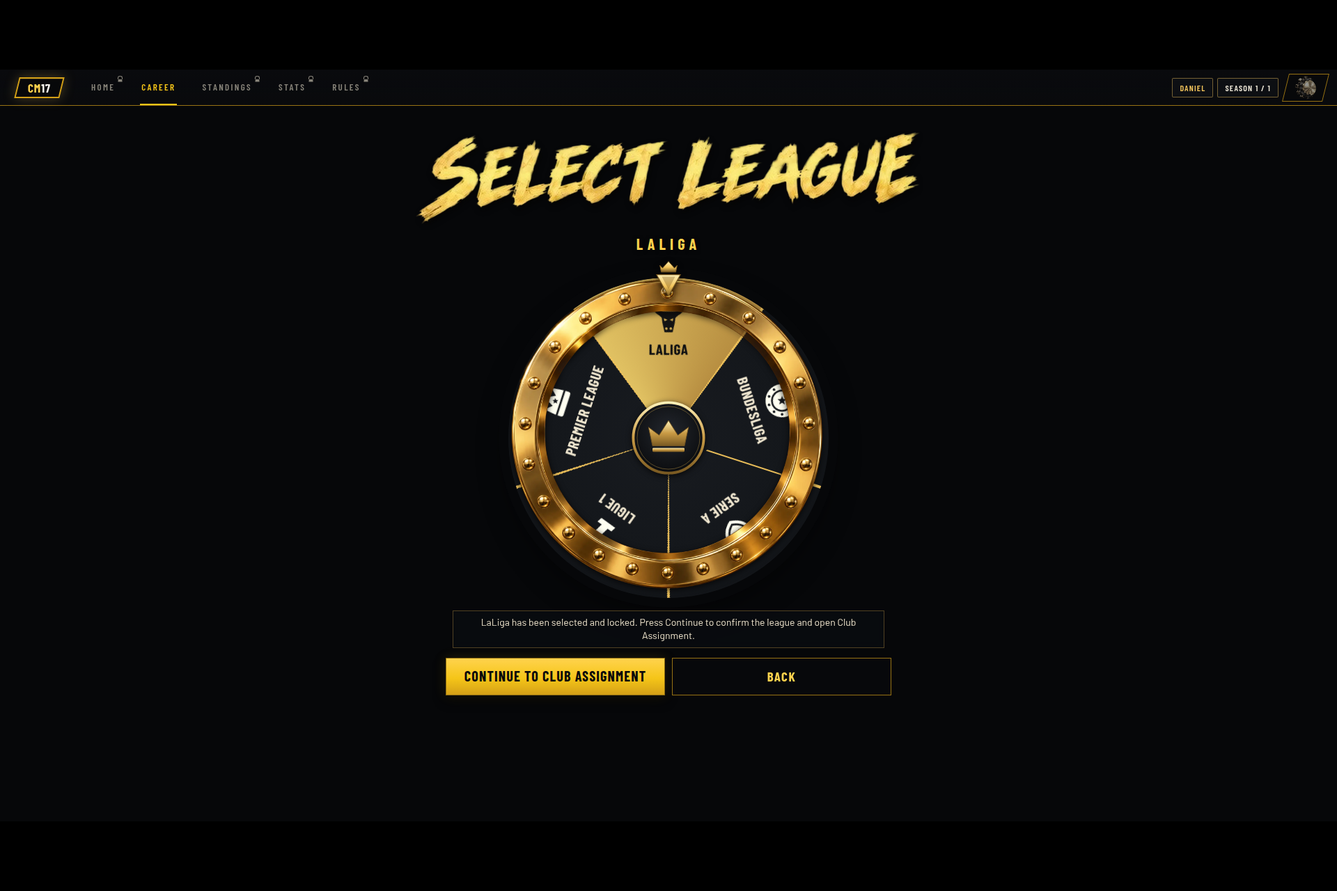
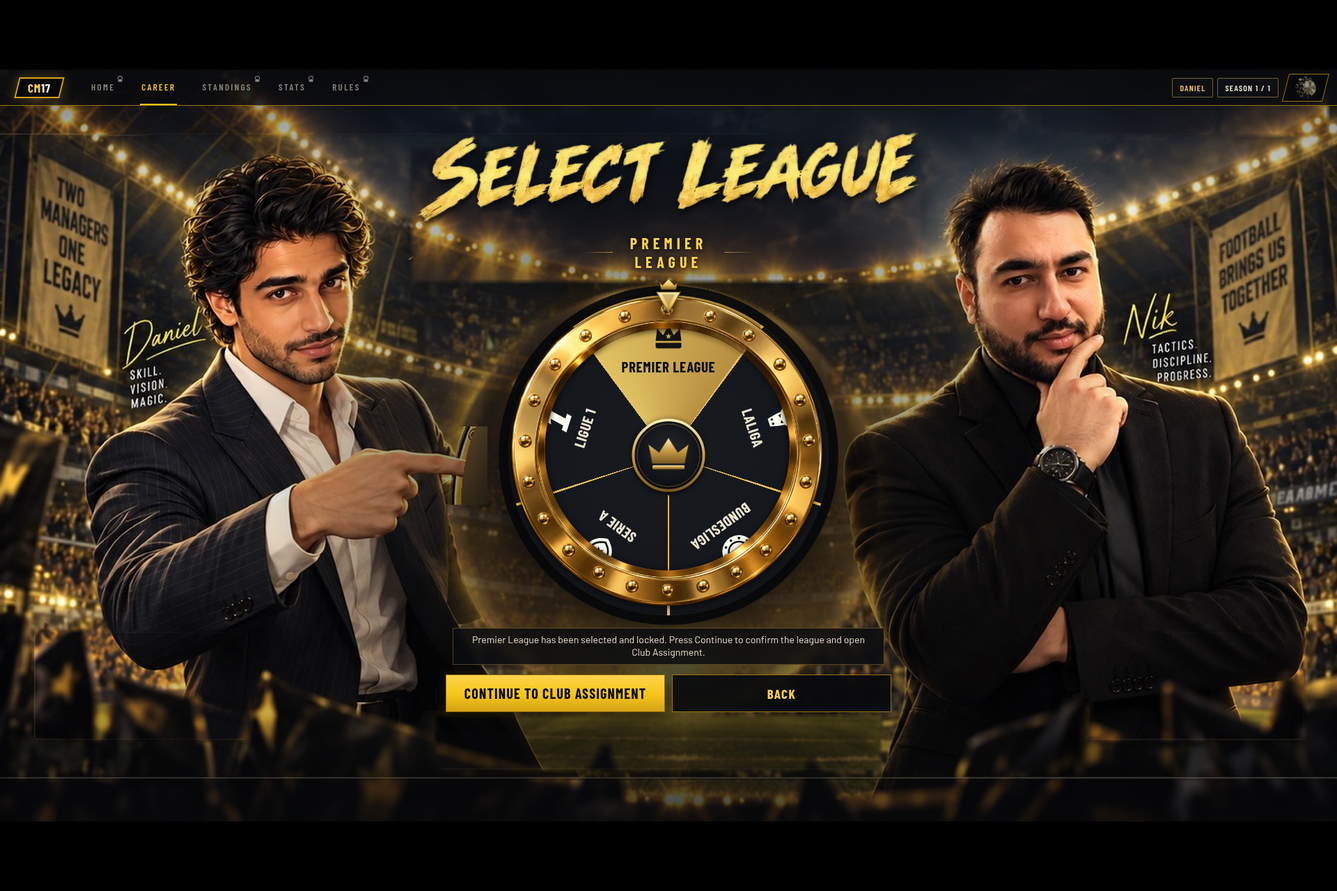
Fix League, Rivalry and Legacy desktop guides (both managers back), full-head rule in tickets, approve premium NEXT_STATISTICS
The old guides were captured while a live bug hid each screen's stadium plate,
so both managers were missing. New guides show the plate as the site intends.
Tickets 5, 8 and 9 now keep both managers; every people ticket asks for full
heads and hair.

Claude-Session: https://claude.ai/code/session_013pn5j1NjipzmcDNVpF7Fd3

diff --git a/project-documents/factory/tickets/TICKET-1610_5_OF_14_NEXT_LEAGUE.md b/project-documents/factory/tickets/TICKET-1610_5_OF_14_NEXT_LEAGUE.md
@@ -1,12 +1,12 @@
 # Ticket 1610 · 5 of 14 · Next-level desktop: Select League
 
-Image 5 of 14 for job 1610 (plan 2, next-level desktop), added Sun 11 Oct 12:30 a.m. Eastern; updated 2:20 a.m. Eastern with stricter rules so GPT cannot invent words, tabs or icons. Rewritten Sun 11 Oct 6:50 p.m. Eastern at Nik's request: same premium, luxury level as the new Transfer War prompt (same elements and words). One image only. The result becomes the new desktop target for Select League (`mockups/NEXT_LEAGUE.png`). Guide: live main r69 at 1920x1080.
+Image 5 of 14 for job 1610 (plan 2, next-level desktop), added Sun 11 Oct 12:30 a.m. Eastern; updated 2:20 a.m. Eastern with stricter rules so GPT cannot invent words, tabs or icons. Rewritten Sun 11 Oct 6:50 p.m. Eastern at Nik's request: same premium, luxury level as the new Transfer War prompt (same elements and words). One image only. The result becomes the new desktop target for Select League (`mockups/NEXT_LEAGUE.png`). Guide: live main r69 at 1920x1080. Fixed Sun 11 Oct 8:50 p.m. Eastern: the old guide was missing both managers because of a live bug; the new guide shows them as the site is meant to.
 
 1. Open a **ChatGPT Temporary Chat**: start a new chat outside any project, then tap the dashed-circle icon at the top right. A Temporary Chat uses no memory and no chat history, so other chats cannot leak into the picture.
 2. Attach this one file only: **GUIDE_NEXT_LEAGUE.png**. On iPhone open https://github.com/nikahanghojjati-oss/fifa17-career-showdown2/blob/factory/v1-wtt5ye/project-documents/factory/tickets/attach/GUIDE_NEXT_LEAGUE.png in Safari, press and hold the picture, then Save to Photos.
 3. Paste the prompt below exactly. If ChatGPT offers to change it, reply: `No, use my prompt exactly.`
 4. Check the picture:
-   - no people added
+   - both men look exactly like before (same faces, curly-haired man LEFT, bearded man RIGHT), with their full heads and hair showing
    - every title, label, button and number is the same and spelled right; read each line against the attached image: no new or reworded sentences, rules or labels
    - the top bar still reads CM17, then HOME, CAREER, STANDINGS, STATS, RULES, with nothing added at the right
    - the whole screen fits, nothing cut off
@@ -27,19 +27,20 @@ MOST IMPORTANT (never break these):
 - Do not add anything this game does not have: no SQUAD, TRANSFERS, COMPETITIONS, COMPETE, PROFILE, SHOP, notification bell, avatar, search or extra menu.
 
 Keep exactly:
-- the same layout and every element in the same place: the top bar, the SELECT LEAGUE title, the league wheel with LALIGA chosen at the top, the message card, CONTINUE TO CLUB ASSIGNMENT and BACK;
-- there are no people on this screen; do not add any people or faces;
+- the same layout and every element in the same place: the top bar, the SELECT LEAGUE title, the league wheel with PREMIER LEAGUE chosen at the top, the message card, CONTINUE TO CLUB ASSIGNMENT and BACK;
+- both men exactly as they are: same faces, hair, beards, skin and clothes; the man with curly hair stays on the LEFT and the man with the full beard stays on the RIGHT; do not mirror or redraw them;
+- show both men's full heads and all their hair; nothing may cover, crop or cut off any part of either head;
 - every title, label, button and number spelled exactly as shown; add no new words, numbers or logos. Very small paragraph text may stay small, but never invent words.
 
 The big upgrade (this is the point of this picture):
-- Set: a dark stadium-night stage with a black marble floor and brushed-gold light, the stands softly blurred.
+- Set: a dark stadium-night stage with a black marble floor and brushed-gold light, the stands softly blurred, Daniel on the left and Nik on the right exactly where they stand now.
 - Hierarchy: SELECT LEAGUE becomes a bold gold-leaf brush logo. The wheel is the hero: a heavy polished-gold prize wheel with real metal depth and engraved segments, standing on a black marble base. The message card and CONTINUE TO CLUB ASSIGNMENT sit clearly below; CONTINUE TO CLUB ASSIGNMENT is a solid polished-gold button.
 - Materials: every card and panel becomes a premium object, thick smoked glass or black lacquer with bevelled brushed-gold frames, fine engraved lines, real depth and soft shadows. No cheap neon outlines and no glowing wireframe grids.
-- Camera: real depth, with shallow depth of field on the background only; every word stays sharp.
-- Lighting: dramatic but controlled, like a luxury watch advert: deep black shadows, warm gold light on the main objects, glow only on the title and the main button. No lens flares, sparkles or light bursts behind text.
+- Camera: a more cinematic, slightly lower angle with shallow depth of field on the background only; both managers and every word stay sharp.
+- Lighting: dramatic but controlled, like a luxury watch advert: a warm gold key light on both faces, deep black shadows and a gentle rim light. Glow only on the title and the main button. No lens flares, sparkles or light bursts behind heads or text.
 - Every text panel sits on clean near-black so every word reads easily; buttons look like real polished, bevelled game buttons.
 
-Also required: Make the wheel a premium polished gold prize wheel. Its five league marks are one flat gold set of this game's own marks, never real logos: Premier League = a crown, LaLiga = a bull, Bundesliga = a round plate, Serie A = a shield, Ligue 1 = the numeral 1. The marks sit fully inside their segments, never covered by the rim. The hub is a football, not a crown. Add a dark stadium-night background with soft gold light behind the wheel.
+Also required: Make the wheel a premium polished gold prize wheel. Its five league marks are one flat gold set of this game's own marks, never real logos: Premier League = a crown, LaLiga = a bull, Bundesliga = a round plate, Serie A = a shield, Ligue 1 = the numeral 1. The marks sit fully inside their segments, never covered by the rim. The hub is a football, not a crown. Keep the stadium and both managers behind the wheel.
 
 Rules: everything must fit on this one screen with nothing cut off. No real club crests, league logos, real trophies or player photos; the club badges stay exactly as they are. The black bars at the top and bottom stay plain black. Same wide landscape framing as the attached image, largest size available.
 ```

diff --git a/project-documents/factory/tickets/TICKET-1610_8_OF_14_NEXT_RIVALRY.md b/project-documents/factory/tickets/TICKET-1610_8_OF_14_NEXT_RIVALRY.md
@@ -1,12 +1,12 @@
 # Ticket 1610 · 8 of 14 · Next-level desktop: Rivalry Statistics
 
-Image 8 of 14 for job 1610 (plan 2, next-level desktop), added Sun 11 Oct 12:30 a.m. Eastern; updated 2:20 a.m. Eastern with stricter rules so GPT cannot invent words, tabs or icons. Rewritten Sun 11 Oct 6:50 p.m. Eastern at Nik's request: same premium, luxury level as the new Transfer War prompt (same elements and words). One image only. The result becomes the new desktop target for Rivalry Statistics (`mockups/NEXT_RIVALRY.png`). Guide: live main r69 at 1920x1080.
+Image 8 of 14 for job 1610 (plan 2, next-level desktop), added Sun 11 Oct 12:30 a.m. Eastern; updated 2:20 a.m. Eastern with stricter rules so GPT cannot invent words, tabs or icons. Rewritten Sun 11 Oct 6:50 p.m. Eastern at Nik's request: same premium, luxury level as the new Transfer War prompt (same elements and words). One image only. The result becomes the new desktop target for Rivalry Statistics (`mockups/NEXT_RIVALRY.png`). Guide: live main r69 at 1920x1080. Fixed Sun 11 Oct 8:50 p.m. Eastern: the old guide was missing both managers because of a live bug; the new guide shows them as the site is meant to.
 
 1. Open a **ChatGPT Temporary Chat**: start a new chat outside any project, then tap the dashed-circle icon at the top right. A Temporary Chat uses no memory and no chat history, so other chats cannot leak into the picture.
 2. Attach this one file only: **GUIDE_NEXT_RIVALRY.png**. On iPhone open https://github.com/nikahanghojjati-oss/fifa17-career-showdown2/blob/factory/v1-wtt5ye/project-documents/factory/tickets/attach/GUIDE_NEXT_RIVALRY.png in Safari, press and hold the picture, then Save to Photos.
 3. Paste the prompt below exactly. If ChatGPT offers to change it, reply: `No, use my prompt exactly.`
 4. Check the picture:
-   - no people added
+   - both men look exactly like before (same faces, curly-haired man LEFT, bearded man RIGHT), with their full heads and hair showing
    - every title, label, button and number is the same and spelled right; read each line against the attached image: no new or reworded sentences, rules or labels
    - the top bar still reads CM17, then HOME, CAREER, STANDINGS, STATS, RULES, with nothing added at the right
    - the whole screen fits, nothing cut off
@@ -28,18 +28,19 @@ MOST IMPORTANT (never break these):
 
 Keep exactly:
 - the same layout and every element in the same place: the top bar, the RIVALRY STATISTICS title, the main numbers table with both club badges, HEAD-TO-HEAD (2, 1, 0), SEASON-BY-SEASON, TROPHY CABINET with its four trophies and BACK TO SHOWDOWN HOME;
-- there are no people on this screen; do not add any people or faces;
+- both men exactly as they are: same faces, hair, beards, skin and clothes; the man with curly hair stays on the LEFT and the man with the full beard stays on the RIGHT; do not mirror or redraw them;
+- show both men's full heads and all their hair; nothing may cover, crop or cut off any part of either head;
 - every title, label, button and number spelled exactly as shown; add no new words, numbers or logos. Very small paragraph text may stay small, but never invent words.
 
 The big upgrade (this is the point of this picture):
-- Set: a dark stadium-night analysis wall with black glass, brushed-gold trim and the stands softly blurred.
+- Set: a dark stadium-night analysis wall with black glass, brushed-gold trim and the stands softly blurred, Daniel on the left and Nik on the right exactly where they stand now.
 - Hierarchy: RIVALRY STATISTICS becomes a bold gold-leaf brush logo. The main numbers table becomes a premium scoreboard with large crisp numbers and the two club badges exactly as they are. HEAD-TO-HEAD, SEASON-BY-SEASON and TROPHY CABINET are matching black-glass panels; the four trophies in TROPHY CABINET sit on small black plinths. BACK TO SHOWDOWN HOME is a solid polished-gold button.
 - Materials: every card and panel becomes a premium object, thick smoked glass or black lacquer with bevelled brushed-gold frames, fine engraved lines, real depth and soft shadows. No cheap neon outlines and no glowing wireframe grids.
-- Camera: real depth, with shallow depth of field on the background only; every word stays sharp.
-- Lighting: dramatic but controlled, like a luxury watch advert: deep black shadows, warm gold light on the main objects, glow only on the title and the main button. No lens flares, sparkles or light bursts behind text.
+- Camera: a more cinematic, slightly lower angle with shallow depth of field on the background only; both managers and every word stay sharp.
+- Lighting: dramatic but controlled, like a luxury watch advert: a warm gold key light on both faces, deep black shadows and a gentle rim light. Glow only on the title and the main button. No lens flares, sparkles or light bursts behind heads or text.
 - Every text panel sits on clean near-black so every word reads easily; buttons look like real polished, bevelled game buttons.
 
-Also required: In the main table, Nik's column on the right is empty in the attached image. Fill both columns: Showdown Points 16 / 8, Season Wins 2 / 1, Total Trophies 5 / 2, Champions Leagues 1 / 1, League Titles 2 / 1, Domestic Cups 2 / 0, Transfer Signings Unavailable / Unavailable. Make the panels larger and easier to read on a dark stadium-night background.
+Also required: In the main table, Nik's numbers on the right are faint in the attached image. Make both columns clearly readable: Showdown Points 16 / 8, Season Wins 2 / 1, Total Trophies 5 / 2, Champions Leagues 1 / 1, League Titles 2 / 1, Domestic Cups 2 / 0, Transfer Signings Unavailable / Unavailable. Make the panels larger and easier to read on a dark stadium-night background.
 
 Rules: everything must fit on this one screen with nothing cut off. No real club crests, league logos, real trophies or player photos; the club badges stay exactly as they are. The black bars at the top and bottom stay plain black. Same wide landscape framing as the attached image, largest size available.
 ```

diff --git a/project-documents/factory/tickets/TICKET-1610_9_OF_14_NEXT_LEGACY.md b/project-documents/factory/tickets/TICKET-1610_9_OF_14_NEXT_LEGACY.md
@@ -1,12 +1,12 @@
 # Ticket 1610 · 9 of 14 · Next-level desktop: Legacy
 
-Image 9 of 14 for job 1610 (plan 2, next-level desktop), added Sun 11 Oct 12:30 a.m. Eastern; updated 2:20 a.m. Eastern with stricter rules so GPT cannot invent words, tabs or icons. Rewritten Sun 11 Oct 6:50 p.m. Eastern at Nik's request: same premium, luxury level as the new Transfer War prompt (same elements and words). One image only. The result becomes the new desktop target for Legacy (`mockups/NEXT_LEGACY.png`). Guide: live main r69 at 1920x1080.
+Image 9 of 14 for job 1610 (plan 2, next-level desktop), added Sun 11 Oct 12:30 a.m. Eastern; updated 2:20 a.m. Eastern with stricter rules so GPT cannot invent words, tabs or icons. Rewritten Sun 11 Oct 6:50 p.m. Eastern at Nik's request: same premium, luxury level as the new Transfer War prompt (same elements and words). One image only. The result becomes the new desktop target for Legacy (`mockups/NEXT_LEGACY.png`). Guide: live main r69 at 1920x1080. Fixed Sun 11 Oct 8:50 p.m. Eastern: the old guide was missing both managers because of a live bug; the new guide shows them as the site is meant to.
 
 1. Open a **ChatGPT Temporary Chat**: start a new chat outside any project, then tap the dashed-circle icon at the top right. A Temporary Chat uses no memory and no chat history, so other chats cannot leak into the picture.
 2. Attach this one file only: **GUIDE_NEXT_LEGACY.png**. On iPhone open https://github.com/nikahanghojjati-oss/fifa17-career-showdown2/blob/factory/v1-wtt5ye/project-documents/factory/tickets/attach/GUIDE_NEXT_LEGACY.png in Safari, press and hold the picture, then Save to Photos.
 3. Paste the prompt below exactly. If ChatGPT offers to change it, reply: `No, use my prompt exactly.`
 4. Check the picture:
-   - no people added
+   - both men look exactly like before (same faces, curly-haired man LEFT, bearded man RIGHT), with their full heads and hair showing
    - every title, label, button and number is the same and spelled right; read each line against the attached image: no new or reworded sentences, rules or labels
    - the top bar still reads CM17, then HOME, CAREER, STANDINGS, STATS, RULES, with nothing added at the right
    - the whole screen fits, nothing cut off
@@ -28,15 +28,16 @@ MOST IMPORTANT (never break these):
 
 Keep exactly:
 - the same layout and every element in the same place: the top bar, the LEGACY title and its line, the LEGACY ARCHIVE / TROPHY ROOM / RECORDS menu, the Showdown #1 card with 15 - 5 and both small badges, VIEW SEASON HISTORY and BACK TO MAIN MENU;
-- there are no people on this screen; do not add any people or faces;
+- both men exactly as they are: same faces, hair, beards, skin and clothes; the man with curly hair stays on the LEFT and the man with the full beard stays on the RIGHT; do not mirror or redraw them;
+- show both men's full heads and all their hair; nothing may cover, crop or cut off any part of either head;
 - every title, label, button and number spelled exactly as shown; add no new words, numbers or logos. Very small paragraph text may stay small, but never invent words.
 
 The big upgrade (this is the point of this picture):
-- Set: a dark, quiet archive hall at night, like a private museum: black marble, brushed-gold display frames, soft gold light.
+- Set: a dark, quiet archive hall at night, like a private museum: black marble, brushed-gold display frames, soft gold light, with Daniel on the left and Nik on the right exactly where they stand now.
 - Hierarchy: LEGACY becomes a bold gold-leaf brush logo. The LEGACY ARCHIVE / TROPHY ROOM / RECORDS menu becomes engraved gold tabs on black glass. The Showdown #1 card becomes a large framed trophy card behind glass, with 15 - 5 in large crisp gold numbers and both small badges exactly as they are. VIEW SEASON HISTORY is a solid polished-gold button.
 - Materials: every card and panel becomes a premium object, thick smoked glass or black lacquer with bevelled brushed-gold frames, fine engraved lines, real depth and soft shadows. No cheap neon outlines and no glowing wireframe grids.
-- Camera: real depth, with shallow depth of field on the background only; every word stays sharp.
-- Lighting: dramatic but controlled, like a luxury watch advert: deep black shadows, warm gold light on the main objects, glow only on the title and the main button. No lens flares, sparkles or light bursts behind text.
+- Camera: a more cinematic, slightly lower angle with shallow depth of field on the background only; both managers and every word stay sharp.
+- Lighting: dramatic but controlled, like a luxury watch advert: a warm gold key light on both faces, deep black shadows and a gentle rim light. Glow only on the title and the main button. No lens flares, sparkles or light bursts behind heads or text.
 - Every text panel sits on clean near-black so every word reads easily; buttons look like real polished, bevelled game buttons.
 
 Rules: everything must fit on this one screen with nothing cut off. No real club crests, league logos, real trophies or player photos; the club badges stay exactly as they are. The black bars at the top and bottom stay plain black. Same wide landscape framing as the attached image, largest size available.

diff --git a/project-documents/factory/mockups/README.md b/project-documents/factory/mockups/README.md
@@ -35,6 +35,7 @@ Nik's mockups and goal images. They show the look to reach. Some contain real cl
 | NEXT_SEASON_RESULTS.png | Season Results (desktop, premium) | Sun 11 Oct 6:58 p.m. Eastern | Premium redo (ticket 1610 3 of 14, rewritten prompt), replaces the 6:33 p.m. picture, cropped to 16:9 (1536x864). Same layout and words as live: top bar with lock marks and the DANIEL / SEASON 1 / 1 chips, SEASON RESULTS gold brush title, TWO MANAGERS · ONE LEGACY, scoring card (+5, +3, +1, +1, +1, max 11), Daniel's entry card (Arsenal, our original badge), four award checkboxes, REVIEW MY SEASON RESULT and BACK TO SHOWDOWN HOME. Daniel LEFT, Nik RIGHT unchanged, all four banners. New: black-marble broadcast stand, trophy on a marble plinth, gold-bevel framed cards, polished-gold main button. Wiring note: keep our own club badge. sha256 49bc9add9db5d71d… |
 | NEXT_TRANSFER.png | Transfer War (desktop, premium) | Sun 11 Oct 8:32 p.m. Eastern | Ticket 1610 4 of 14 (premium prompt), cropped to 16:9 (1536x864). Same layout and every live word: top bar with lock marks and DANIEL / SEASON 1 / 1 chips, TRANSFER WAR brush title with TWO MANAGERS. ONE LEGACY., YOU / Daniel and Nik tags, TRANSFER WINDOW 14:27 with TRANSFER WINDOW LIVE / BUILD YOUR FIFA 17 SQUAD, Daniel's card with REQUEST EARLY END, Nik's SEALED card, counts card (15 MIN, 3 SIGNINGS, 3 GUESSES) with the guess line, banners and props, SEASON 1 · TRANSFER CHALLENGE steps 01-04, HOME and REFRESH. Daniel LEFT, Nik RIGHT unchanged. New: night executive war room with black marble desk and city-stadium windows, hanging gold scoreboard, glass-and-gold cards, polished-gold REQUEST EARLY END, red wax CM17 seal. sha256 3d18fb2ea4c7178c… |
 | NEXT_CLUB.png | Club Assignment (desktop, premium) | Sun 11 Oct 8:39 p.m. Eastern | Ticket 1610 6 of 14 (premium prompt), cropped to 16:9 (1536x864). Same layout and words: top bar with lock marks and DANIEL / SEASON 1 / 1 chips, CAREER MODE SHOWDOWN 17 over the CLUB ASSIGNMENT brush title, LEAGUE CONFIRMED LaLiga, RIVALRY READY · CONFIRM TO BEGIN, steps 01 DRAW to 05 LOCK, both managers holding CLUB PACK CM17 packs with our own Eibar and Villarreal badges, RIVALRY VS, CLUBS LOCKED Daniel vs Nik card with LaLiga · 1 season and both assigned-club rows, the permanent-clubs sentence and CONFIRM RIVALRY & START SHOWDOWN. Daniel LEFT, Nik RIGHT, both full heads of hair visible (nothing covers them). New: night club-signing lounge with black marble desk, gold trophy shelves, smoked-glass stadium windows, marble RIVALRY VS block and gold contract plaque. Wiring: keep the live pack text and badges; keep both heads fully visible. sha256 e6c5fed4accff812… |
+| NEXT_STATISTICS.png | Career Statistics (desktop, premium) | Sun 11 Oct 8:44 p.m. Eastern | Ticket 1610 7 of 14 (premium prompt), cropped to 16:9 (1536x864). Same layout and every live word: top bar with SIGN IN and NO ACTIVE SHOWDOWN, CAREER MODE SHOWDOWN 17 over the CAREER STATISTICS brush title, TWO MANAGERS. ONE LEGACY., the four stat tiles (1 TOGETHER, 3 / 3, 15 / 5, 4 / 2), CAREER TABLE, MANAGER COMPARISON bars, CAREER LEADERS cards, OPEN TROPHY ROOM and BACK TO MAIN MENU. Daniel LEFT, Nik RIGHT unchanged with full heads. New: night executive lounge with black marble desk, smoked-glass stadium windows, gold-framed glass tiles. Wiring: keep the live small D and N letters beside the tile numbers. sha256 8408c98ebb61e62d… |
 | PHONE_SETTINGS.png | Settings | Sat 10 Oct 11:22 p.m. Eastern | Ticket 1588 12 of 12, first try. Every word matches live. New: bevelled black glass panels with gold edges, gold-framed SIGN IN WITH GOOGLE, bevelled gold DONE with a clear margin, calmer stadium. Wiring note: DANIEL & NIK and CAREER MODE SHOWDOWN headings still use a plain sans copied from live; use the game condensed font there like every other label. sha256 13f4c99be317608a… |
 | PHONE_RULE_BOOK.png | Rule Book | Sun 11 Oct 3:17 a.m. Eastern | Ticket 1588 13 of 14, after the stricter prompt (earlier tries invented rules and tabs). Every word matches live: section 01's six lines word for word, 02-06 as closed accordion rows, gear button top right, BACK TO MAIN MENU, bottom tabs HOME / CAREER / STANDINGS / STATS / RULES with RULES lit. New: one framed accordion that fits 393x660 with no scroll, gold-ringed numbers, calm stadium night. sha256 08231f324078e9de… |
 | PHONE_STANDINGS.png | Standings | Sun 11 Oct 3:53 a.m. Eastern | Ticket 1588 14 of 14, after the stricter prompt. Both managers unchanged (Daniel LEFT pointing, Nik RIGHT arms crossed), gear top right, live five-tab bar with STANDINGS lit. Every live word and number: THIS SHOWDOWN / CAREER switch, HEAD-TO-HEAD, SEASON 3 OF 3, SHOWDOWN POINTS 16 : 8, DANIEL LEADS, both club badges as live, and all seven rows on screen (Season Wins 2/1, Draws 0/0, Losses 1/2, Champions Leagues 1/1, League Titles 2/1, Domestic Cups 2/0, Total Trophies 5/2). Row labels shown in capitals (live is title case; keep live case when wiring if preferred). New: whole card fits 393x660 with no scroll, framed black-glass card, gold separators. sha256 3be8fa56ea8f8aff… |

diff --git a/project-documents/factory/tickets/TICKET-1610_1_OF_14_NEXT_HOME.md b/project-documents/factory/tickets/TICKET-1610_1_OF_14_NEXT_HOME.md
@@ -29,6 +29,7 @@ MOST IMPORTANT (never break these):
 Keep exactly:
 - the same layout and every element in the same place: the top bar with CM17 and the tabs, the CAREER MODE SHOWDOWN 17 title, both managers with their handwritten name tags, the side banners, the soundtrack card with PLAY TRACK, RIVALRY HEADQUARTERS with its line, the big yellow CONTINUE CAREER tile and the six tiles (START A SHOWDOWN, LEGACY, STATISTICS, TROPHY ROOM, RULE BOOK, SETTINGS) with their art;
 - both men exactly as they are: same faces, hair, beards, skin and clothes; the man with curly hair stays on the LEFT and the man with the full beard stays on the RIGHT; do not mirror or redraw them;
+- show both men's full heads and all their hair; nothing may cover, crop or cut off any part of either head;
 - every title, label, button and number spelled exactly as shown; add no new words, numbers or logos. Very small paragraph text may stay small, but never invent words.
 
 The big upgrade (this is the point of this picture):

diff --git a/project-documents/factory/tickets/TICKET-1610_6_OF_14_NEXT_CLUB.md b/project-documents/factory/tickets/TICKET-1610_6_OF_14_NEXT_CLUB.md
@@ -29,6 +29,7 @@ MOST IMPORTANT (never break these):
 Keep exactly:
 - the same layout and every element in the same place: the top bar, the CLUB ASSIGNMENT title, LEAGUE CONFIRMED with LaLiga, the five-step track, both managers holding their club packs, the two club badges exactly as they are, RIVALRY VS, the CLUBS LOCKED card with both clubs, the permanent-clubs sentence and CONFIRM RIVALRY & START SHOWDOWN;
 - both men exactly as they are: same faces, hair, beards, skin and clothes; the man with curly hair stays on the LEFT and the man with the full beard stays on the RIGHT; do not mirror or redraw them;
+- show both men's full heads and all their hair; nothing may cover, crop or cut off any part of either head;
 - every title, label, button and number spelled exactly as shown; add no new words, numbers or logos. Very small paragraph text may stay small, but never invent words.
 
 The big upgrade (this is the point of this picture):

diff --git a/project-documents/factory/tickets/TICKET-1610_10_OF_14_NEXT_TROPHY_ROOM.md b/project-documents/factory/tickets/TICKET-1610_10_OF_14_NEXT_TROPHY_ROOM.md
@@ -29,6 +29,7 @@ MOST IMPORTANT (never break these):
 Keep exactly:
 - the same layout and every element in the same place: the top bar, the TROPHY ROOM title, both managers with #1 DANIEL 15 and #2 NIK 5, the champion trophy with its SHOWDOWN CHAMPION plaque, the five tabs ALL, SHOWDOWN, LEAGUE TITLES, DOMESTIC CUPS, CHAMPIONS LEAGUE, the four trophy cards with their counts, the record row and BACK;
 - both men exactly as they are: same faces, hair, beards, skin and clothes; the man with curly hair stays on the LEFT and the man with the full beard stays on the RIGHT; do not mirror or redraw them;
+- show both men's full heads and all their hair; nothing may cover, crop or cut off any part of either head;
 - every title, label, button and number spelled exactly as shown; add no new words, numbers or logos. Very small paragraph text may stay small, but never invent words.
 
 The big upgrade (this is the point of this picture):

diff --git a/project-documents/factory/tickets/TICKET-1610_3_OF_14_NEXT_SEASON_RESULTS.md b/project-documents/factory/tickets/TICKET-1610_3_OF_14_NEXT_SEASON_RESULTS.md
@@ -29,6 +29,7 @@ MOST IMPORTANT (never break these):
 Keep exactly:
 - the same layout and every element in the same place: the top bar, the SEASON RESULTS title, both managers in their black kits, the side banners, the SEASON SCORING SYSTEM card, Daniel's entry card with the league position, points and goals boxes and the four award ticks, REVIEW MY SEASON RESULT and BACK TO SHOWDOWN HOME;
 - both men exactly as they are: same faces, hair, beards, skin and clothes; the man with curly hair stays on the LEFT and the man with the full beard stays on the RIGHT; do not mirror or redraw them;
+- show both men's full heads and all their hair; nothing may cover, crop or cut off any part of either head;
 - every title, label, button and number spelled exactly as shown; add no new words, numbers or logos. Very small paragraph text may stay small, but never invent words.
 
 The big upgrade (this is the point of this picture):

diff --git a/project-documents/factory/tickets/TICKET-1610_12_OF_14_NEXT_FINAL_WINNER.md b/project-documents/factory/tickets/TICKET-1610_12_OF_14_NEXT_FINAL_WINNER.md
@@ -29,6 +29,7 @@ MOST IMPORTANT (never break these):
 Keep exactly:
 - the same layout and every element in the same place: the top bar, the SHOWDOWN CHAMPION title, TWO MANAGERS · ONE LEGACY, both managers, the trophy in the middle, DANIEL WINS 16 8, the side banners, the results panel and the two buttons REVIEW MY SEASON RESULT and BACK TO SHOWDOWN HOME;
 - both men exactly as they are: same faces, hair, beards, skin and clothes; the man with curly hair stays on the LEFT and the man with the full beard stays on the RIGHT; do not mirror or redraw them;
+- show both men's full heads and all their hair; nothing may cover, crop or cut off any part of either head;
 - every title, label, button and number spelled exactly as shown; add no new words, numbers or logos. Very small paragraph text may stay small, but never invent words.
 
 The big upgrade (this is the point of this picture):

diff --git a/project-documents/factory/tickets/TICKET-1610_14_OF_14_NEXT_STANDINGS.md b/project-documents/factory/tickets/TICKET-1610_14_OF_14_NEXT_STANDINGS.md
@@ -29,6 +29,7 @@ MOST IMPORTANT (never break these):
 Keep exactly:
 - the same layout and every element in the same place: the top bar, the STANDINGS title, both managers with their name tags, the side banners, the THIS SHOWDOWN / CAREER switch, HEAD-TO-HEAD, the two club badges exactly as they are, 16 : 8, DANIEL LEADS and all seven rows of numbers;
 - both men exactly as they are: same faces, hair, beards, skin and clothes; the man with curly hair stays on the LEFT and the man with the full beard stays on the RIGHT; do not mirror or redraw them;
+- show both men's full heads and all their hair; nothing may cover, crop or cut off any part of either head;
 - every title, label, button and number spelled exactly as shown; add no new words, numbers or logos. Very small paragraph text may stay small, but never invent words.
 
 The big upgrade (this is the point of this picture):

diff --git a/project-documents/factory/tickets/TICKET-1610_7_OF_14_NEXT_STATISTICS.md b/project-documents/factory/tickets/TICKET-1610_7_OF_14_NEXT_STATISTICS.md
@@ -29,6 +29,7 @@ MOST IMPORTANT (never break these):
 Keep exactly:
 - the same layout and every element in the same place: the top bar, the CAREER STATISTICS title, both managers, the side banners, the four stat cards, the CAREER TABLE, MANAGER COMPARISON, CAREER LEADERS, OPEN TROPHY ROOM and BACK TO MAIN MENU;
 - both men exactly as they are: same faces, hair, beards, skin and clothes; the man with curly hair stays on the LEFT and the man with the full beard stays on the RIGHT; do not mirror or redraw them;
+- show both men's full heads and all their hair; nothing may cover, crop or cut off any part of either head;
 - every title, label, button and number spelled exactly as shown; add no new words, numbers or logos. Very small paragraph text may stay small, but never invent words.
 
 The big upgrade (this is the point of this picture):

diff --git a/project-documents/factory/tickets/TICKET-1610_2_OF_14_NEXT_CONNECT_PLAYERS.md b/project-documents/factory/tickets/TICKET-1610_2_OF_14_NEXT_CONNECT_PLAYERS.md
@@ -29,6 +29,7 @@ MOST IMPORTANT (never break these):
 Keep exactly:
 - the same layout and every element in the same place: the top bar, the CONNECT PLAYERS title and its line, both managers, the side banners, the DANIEL - START card with CHOOSE SEASONS, the NIK - JOIN card and BACK;
 - both men exactly as they are: same faces, hair, beards, skin and clothes; the man with curly hair stays on the LEFT and the man with the full beard stays on the RIGHT; do not mirror or redraw them;
+- show both men's full heads and all their hair; nothing may cover, crop or cut off any part of either head;
 - every title, label, button and number spelled exactly as shown; add no new words, numbers or logos. Very small paragraph text may stay small, but never invent words.
 
 The big upgrade (this is the point of this picture):
